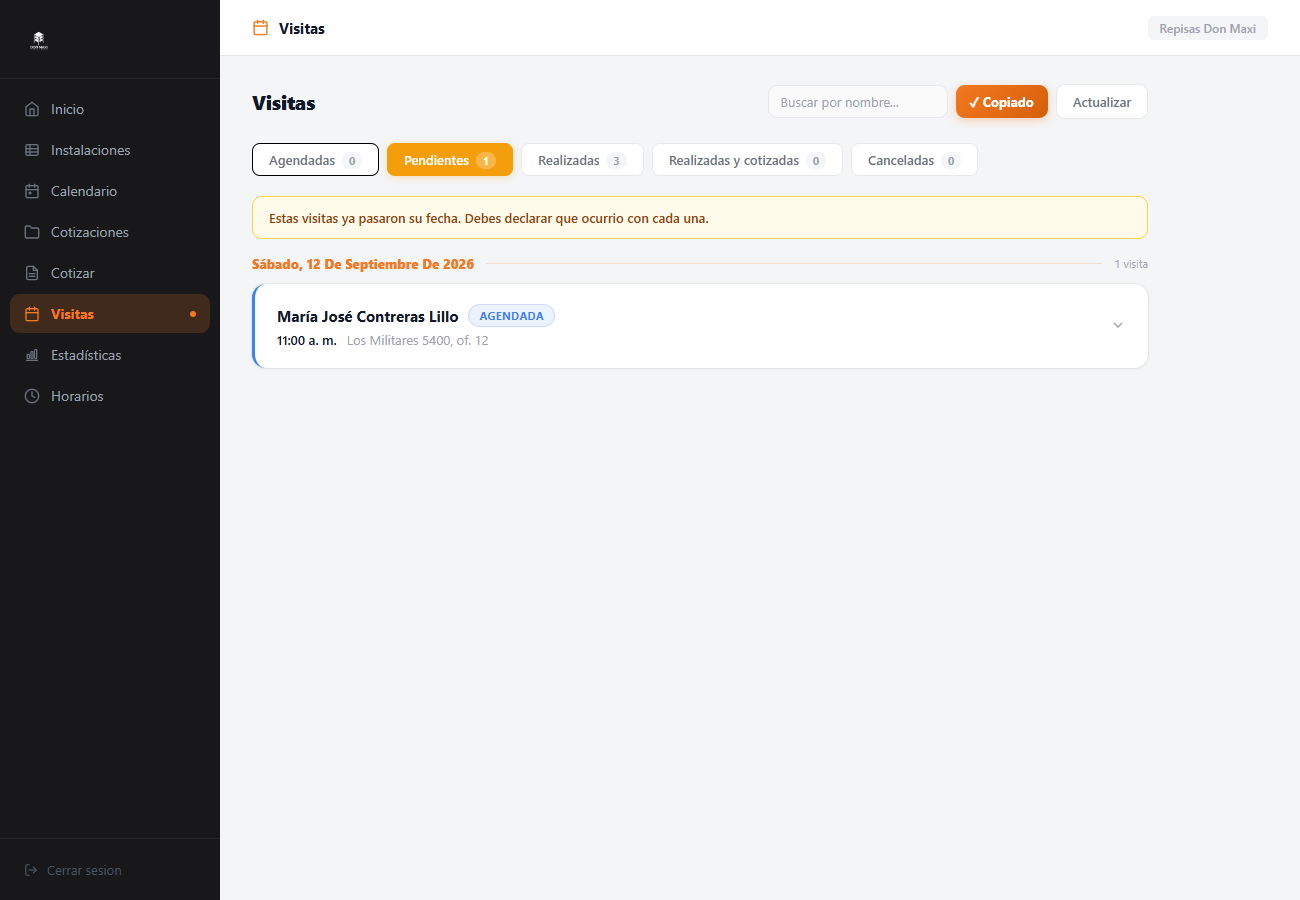
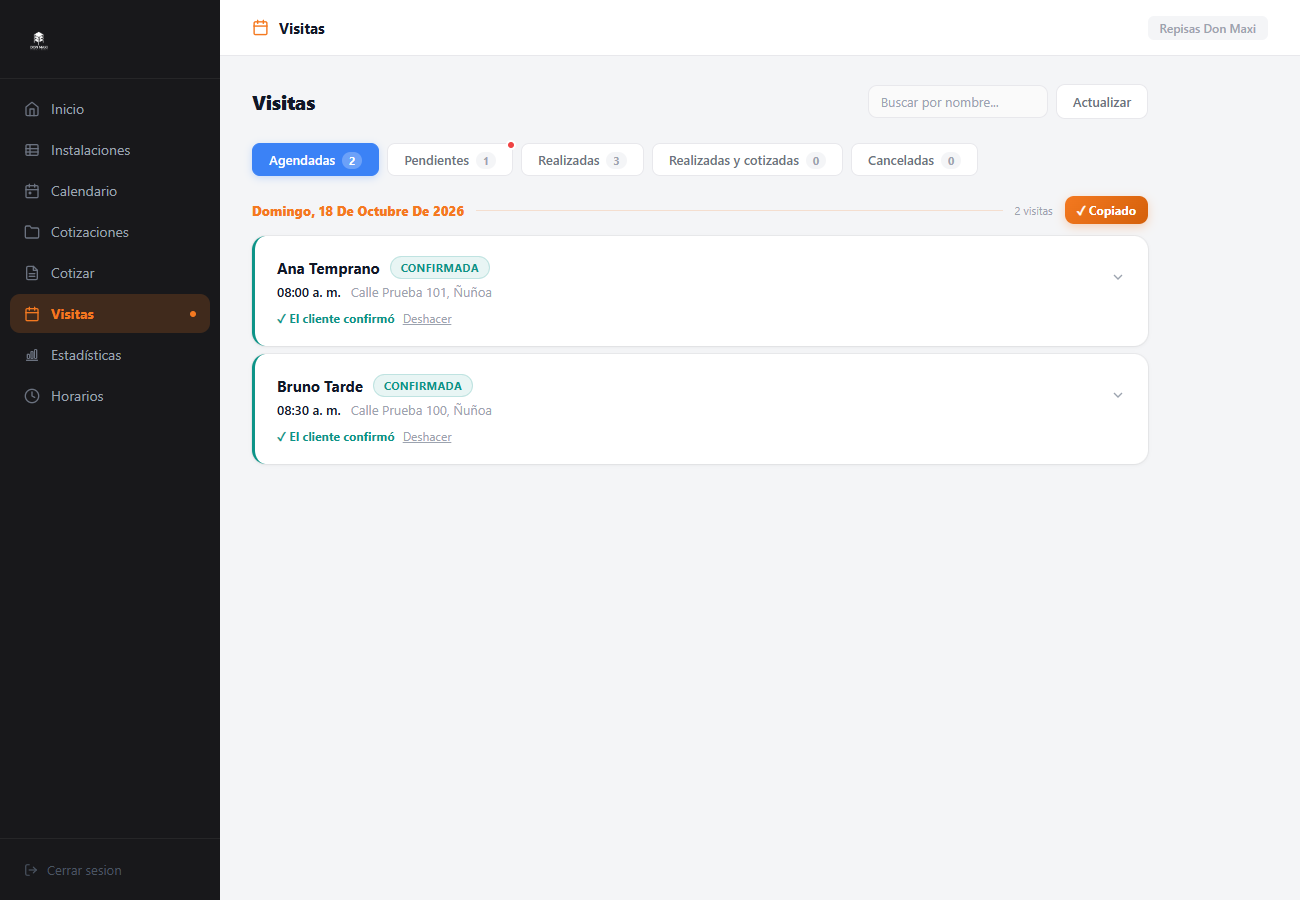
Visitas: confirmar con el cliente y copiar las confirmadas por dia
- En Agendadas, cada visita tiene "Pedir confirmacion" (WhatsApp con 1 hora de flexibilidad y que avise si no puede) y "Confirmo".
- Nuevo estado "Confirmada" (sigue vigente en Agendadas, Pendientes y el Inicio).
- El copiar ahora es por dia y solo con las confirmadas, en orden de hora.

diff --git a/src/admin/Visitas.jsx b/src/admin/Visitas.jsx
@@ -1,6 +1,7 @@
 import React, { useEffect, useState, useCallback } from 'react'
 import { VISIT_STATUS_LABELS, C, apiFetch, fmtDate, fmtTime, styles } from './utils.js'
-import { textoVisitas } from './listaVisitas.js'
+import { VISITA_VIGENTE, mensajeConfirmarVisita, textoVisitas } from './listaVisitas.js'
+import { linkWhatsapp } from '../../netlify/functions/lib/mensajes.mjs'
 
 function Badge({ status }) {
   const s = VISIT_STATUS_LABELS[status] || VISIT_STATUS_LABELS.agendada
@@ -75,12 +76,12 @@ export default function VisitasSection({ statuses, onStatusChange, navigateTo, o
 
   const agendadas = visits.filter(v => {
     const s = getStatus(v)
-    return (s === 'agendada' || s === 'reagendar') && new Date(v.start) >= now
+    return VISITA_VIGENTE.includes(s) && new Date(v.start) >= now
   }).sort((a, b) => new Date(a.start) - new Date(b.start))
 
   const pendientes = visits.filter(v => {
     const s = getStatus(v)
-    return (s === 'agendada' || s === 'reagendar') && new Date(v.start) < now
+    return VISITA_VIGENTE.includes(s) && new Date(v.start) < now
   }).sort((a, b) => new Date(b.start) - new Date(a.start))
 
   const realizadas = visits.filter(v => getStatus(v) === 'realizada')
@@ -104,10 +105,10 @@ export default function VisitasSection({ statuses, onStatusChange, navigateTo, o
   const q    = buscar.trim().toLowerCase()
   const list = (listMap[tab] || []).filter(v => !q || (v.nombre || '').toLowerCase().includes(q))
 
-  // Copia la lista que se ve (pestana y busqueda) para mandarsela a quien hace las visitas.
-  async function copiarLista() {
-    try { await navigator.clipboard.writeText(textoVisitas(list)); setCopiado('ok') }
-    catch { setCopiado('error') }
+  // Copia las visitas confirmadas de un dia para mandarselas a quien hace las visitas.
+  async function copiarDia(group, confirmadas) {
+    try { await navigator.clipboard.writeText(textoVisitas(confirmadas)); setCopiado(group.label) }
+    catch { setCopiado('error:' + group.label) }
     setTimeout(() => setCopiado(''), 2500)
   }
 
@@ -141,10 +142,6 @@ export default function VisitasSection({ statuses, onStatusChange, navigateTo, o
         <div style={{ display: 'flex', gap: 8, alignItems: 'center', flexWrap: 'wrap' }}>
           <input value={buscar} onChange={e => setBuscar(e.target.value)} placeholder="Buscar por nombre..."
             style={{ ...styles.input, width: 180, padding: '7px 12px', fontSize: 13 }} />
-          <button onClick={copiarLista} disabled={!list.length} title="Copia las visitas de esta pestaña, por día y en orden, para pegarlas en WhatsApp"
-            style={{ ...styles.btnPrimary, padding: '8px 14px', fontSize: 13, opacity: list.length ? 1 : .5, cursor: list.length ? 'pointer' : 'default' }}>
-            {copiado === 'ok' ? '✓ Copiado' : copiado === 'error' ? 'No se pudo copiar' : `📋 Copiar lista (${list.length})`}
-          </button>
           <button onClick={load} style={styles.btnSecondary}>Actualizar</button>
         </div>
       </div>
@@ -187,8 +184,10 @@ export default function VisitasSection({ statuses, onStatusChange, navigateTo, o
 
       {/* Lista agrupada por domingo */}
       <div style={{ display: 'flex', flexDirection: 'column', gap: 28 }}>
-        {grouped.map(group => (
-          <div key={group.label}>
+        {grouped.map(group => {
+          const confirmadas = group.visits.filter(v => getStatus(v) === 'confirmada')
+          return (
+          <div key={group.label} data-testid="dia-visitas">
             {/* Encabezado del domingo */}
             <div style={{ display: 'flex', alignItems: 'center', gap: 12, marginBottom: 12 }}>
               <span style={{ fontSize: 13, fontWeight: 800, color: C.orange, textTransform: 'capitalize', whiteSpace: 'nowrap' }}>
@@ -198,6 +197,13 @@ export default function VisitasSection({ statuses, onStatusChange, navigateTo, o
               <span style={{ fontSize: 11, color: C.textMuted, whiteSpace: 'nowrap' }}>
                 {group.visits.length} {group.visits.length === 1 ? 'visita' : 'visitas'}
               </span>
+              {tab === 'agendadas' && (
+                <button onClick={() => copiarDia(group, confirmadas)} disabled={!confirmadas.length}
+                  title="Copia las visitas confirmadas de este día, en orden y con todos sus datos, para mandarlas por WhatsApp"
+                  style={{ ...styles.btnPrimary, padding: '6px 12px', fontSize: 12, whiteSpace: 'nowrap', opacity: confirmadas.length ? 1 : .45, cursor: confirmadas.length ? 'pointer' : 'default' }}>
+                  {copiado === group.label ? '✓ Copiado' : copiado === 'error:' + group.label ? 'No se pudo copiar' : `📋 Copiar confirmadas (${confirmadas.length}/${group.visits.length})`}
+                </button>
+              )}
             </div>
 
             {/* Tarjetas del grupo */}
@@ -231,6 +237,28 @@ export default function VisitasSection({ statuses, onStatusChange, navigateTo, o
                         <svg width="16" height="16" viewBox="0 0 24 24" fill="none" stroke="currentColor" strokeWidth="2"><polyline points="6 9 12 15 18 9"/></svg>
                       </div>
                     </div>
+
+                    {/* Confirmar con el cliente (el dia anterior) */}
+                    {tab === 'agendadas' && (
+                      <div style={{ display: 'flex', gap: 8, flexWrap: 'wrap', alignItems: 'center', marginTop: 10 }}>
+                        {status === 'confirmada' ? (
+                          <>
+                            <span style={{ fontSize: 12, fontWeight: 700, color: VISIT_STATUS_LABELS.confirmada.color }}>✓ El cliente confirmó</span>
+                            <button onClick={() => handleStatus(visit, 'agendada')} disabled={isUpdating}
+                              style={{ background: 'none', border: 'none', padding: 0, fontSize: 12, color: C.textMuted, textDecoration: 'underline', cursor: 'pointer' }}>Deshacer</button>
+                          </>
+                        ) : (
+                          <>
+                            {visit.celular
+                              ? <a href={linkWhatsapp(visit.celular, mensajeConfirmarVisita(visit))} target="_blank" rel="noreferrer"
+                                  style={{ padding: '6px 12px', borderRadius: 8, fontSize: 12, fontWeight: 700, background: '#25D366', color: 'white', textDecoration: 'none' }}>💬 Pedir confirmación</a>
+                              : <span style={{ fontSize: 12, color: C.textMuted }}>Sin celular para WhatsApp</span>}
+                            <button onClick={() => handleStatus(visit, 'confirmada')} disabled={isUpdating}
+                              style={{ padding: '6px 12px', borderRadius: 8, fontSize: 12, fontWeight: 700, cursor: 'pointer', border: '1.5px solid ' + VISIT_STATUS_LABELS.confirmada.color, background: C.surface, color: VISIT_STATUS_LABELS.confirmada.color, opacity: isUpdating ? .5 : 1 }}>✓ Confirmó</button>
+                          </>
+                        )}
+                      </div>
+                    )}
 
                     {/* Detalle expandido */}
                     {isExpanded && (
@@ -287,7 +315,8 @@ export default function VisitasSection({ statuses, onStatusChange, navigateTo, o
               })}
             </div>
           </div>
-        ))}
+          )
+        })}
       </div>
     </div>
   )

diff --git a/src/admin/Dashboard.jsx b/src/admin/Dashboard.jsx
@@ -1,5 +1,6 @@
 import React, { useEffect, useState, useCallback } from 'react'
 import { C, apiFetch, fmt, fmtDate, fmtTime, styles, VISIT_STATUS_LABELS } from './utils.js'
+import { VISITA_VIGENTE } from './listaVisitas.js'
 
 function KpiCard({ label, value, sub, color, onClick, alert }) {
   return (
@@ -73,13 +74,13 @@ export default function DashboardSection({ navigateTo }) {
       // Visitas proximas (agendadas, fecha futura)
       const visitasProximas = visits.filter(v => {
         const s = v.status || 'agendada'
-        return (s === 'agendada' || s === 'reagendar') && new Date(v.start) >= hoy && new Date(v.start) < en7
+        return VISITA_VIGENTE.includes(s) && new Date(v.start) >= hoy && new Date(v.start) < en7
       })
 
       // Pendientes de declarar (fecha pasada, sin estado claro)
       const pendientes = visits.filter(v => {
         const s = v.status || 'agendada'
-        return (s === 'agendada' || s === 'reagendar') && new Date(v.start) < now
+        return VISITA_VIGENTE.includes(s) && new Date(v.start) < now
       })
 
       // Realizadas sin cotizar
@@ -101,7 +102,7 @@ export default function DashboardSection({ navigateTo }) {
       const manana = new Date(hoy); manana.setDate(hoy.getDate() + 1)
       const visitasHoy = visits.filter(v => {
         const d = new Date(v.start)
-        return d >= hoy && d < manana && (v.status === 'agendada' || v.status === 'reagendar')
+        return d >= hoy && d < manana && VISITA_VIGENTE.includes(v.status)
       })
 
       setData({ visitasProximas, pendientes, realizadasSinCotizar, porConfirmar, confirmadas, sinRespuesta, visitasHoy, porVerificar })

diff --git a/src/admin/listaVisitas.test.js b/src/admin/listaVisitas.test.js
@@ -1,6 +1,6 @@
 import test from 'node:test'
 import assert from 'node:assert/strict'
-import { textoVisitas } from './listaVisitas.js'
+import { mensajeConfirmarVisita, textoVisitas } from './listaVisitas.js'
 
 test('la lista de visitas va por dia, en orden de hora y con todos los datos', () => {
   const texto = textoVisitas([
@@ -14,4 +14,13 @@ test('la lista de visitas va por dia, en orden de hora y con todos los datos', (
   assert.match(texto, /📞 \+56911111111/)
   assert.match(texto, /✉ ana@ejemplo\.cl\n📝 Tocar timbre 2/)
   assert.match(texto, /———\n\n📅 \*Domingo,? 25 de octubre\* \(1 visita\)\n\n\*1\. 11:00 · Carla\*$/)
+})
+
+test('el mensaje para confirmar la visita pide 1 hora de flexibilidad y que avise si no puede', () => {
+  const visita = { nombre: 'Ana María Pérez', start: '2026-10-18T10:30:00-03:00', direccion: 'Los Militares 5400' }
+  const texto = mensajeConfirmarVisita(visita, new Date('2026-10-17T12:00:00-03:00'))
+  assert.match(texto, /^Hola Ana! 👋 .*visita de mañana domingo 18 de octubre a las 10:30 en Los Militares 5400\./)
+  assert.match(texto, /1 hora de flexibilidad/)
+  assert.match(texto, /si no puedes, avísanos/)
+  assert.match(mensajeConfirmarVisita(visita, new Date('2026-10-10T12:00:00-03:00')), /visita del domingo 18/)
 })

diff --git a/src/admin/listaVisitas.js b/src/admin/listaVisitas.js
@@ -26,3 +26,20 @@ export function textoVisitas(visitas) {
     return lineas.join('\n')
   }).join('\n\n———\n\n')
 }
+
+// Visitas que siguen en pie (todavia no se declara que paso con ellas).
+export const VISITA_VIGENTE = ['agendada', 'reagendar', 'confirmada']
+
+// Mensaje del dia anterior para que el cliente confirme la visita.
+export function mensajeConfirmarVisita(visita, ahora = new Date()) {
+  const nombre = (visita.nombre || '').trim().split(/\s+/)[0]
+  const manana = diaDe(new Date(ahora.getTime() + 864e5).toISOString()) === diaDe(visita.start)
+  const cuando = `${manana ? 'de mañana ' : 'del '}${fechaLarga(visita.start).replace(',', '')} a las ${hora(visita.start)}`
+  return [
+    `Hola${nombre ? ' ' + nombre : ''}! 👋 Te escribimos de Repisas Don Maxi para confirmar la visita ${cuando}${visita.direccion ? ` en ${visita.direccion.trim()}` : ''}.`,
+    '',
+    'Por favor considera 1 hora de flexibilidad por un eventual atraso o adelanto.',
+    '',
+    '¿Nos confirmas si estamos ok? Y si no puedes, avísanos también para reorganizarnos e intentar ser lo más puntuales posible 🙏',
+  ].join('\n')
+}

diff --git a/src/admin/utils.js b/src/admin/utils.js
@@ -18,6 +18,7 @@ export function authHeaders() {
 
 export const VISIT_STATUS_LABELS = {
   agendada:           { label: 'Agendada',              color: '#3B82F6' },
+  confirmada:         { label: 'Confirmada',            color: '#0D9488' },
   pendiente:          { label: 'Pendiente de declarar', color: '#F59E0B' },
   realizada:          { label: 'Realizada',             color: '#10B981' },
   realizada_cotizada: { label: 'Realizada y cotizada',  color: '#8B5CF6' },
